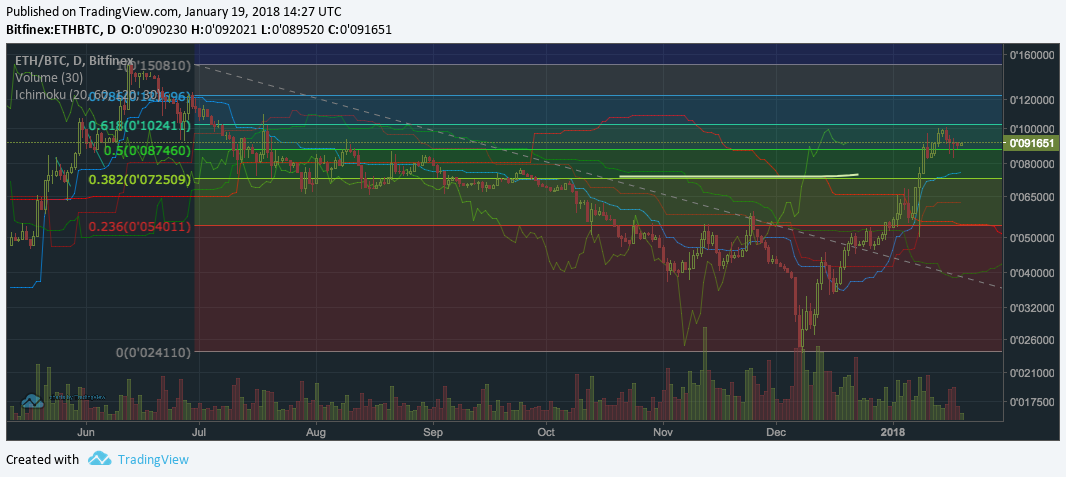
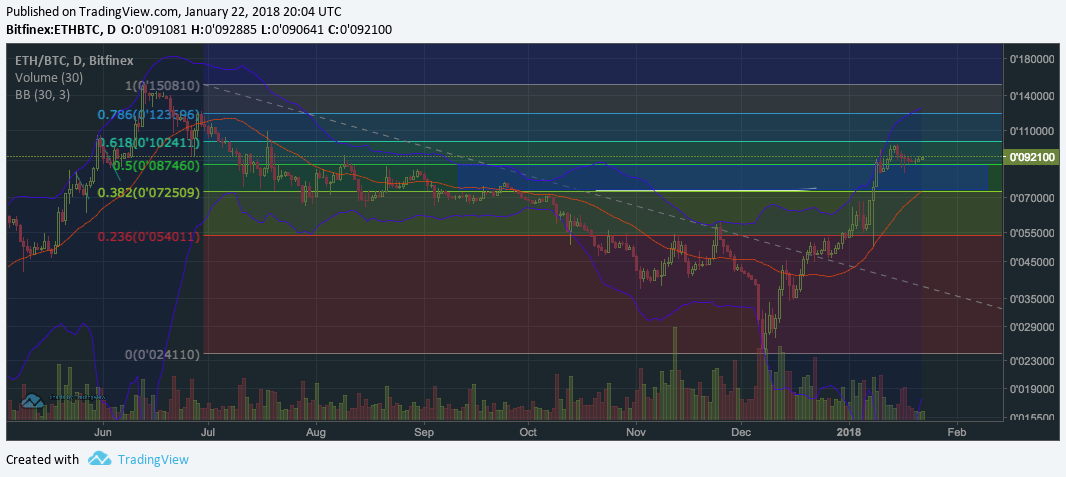
fibs

diff --git a/_layouts/forestry.html b/_layouts/forestry.html
@@ -55,11 +55,16 @@ layout: default-news
             <em>
               Join our Telegram group: <a title="{{ site.title }} Telegram" target="_blank" href="https://t.me/altcointrading_net"><i class="fa fa-telegram"></i> altcointrading_net</a>
             </em>
+          </p>
 
+          <p>
+            <em>
+              Join our Facebook group: <a title="{{ site.title }} Facebook Group" target="_blank" href="https://www.facebook.com/groups/332750657242745/"><i class="fa fa-facebook"></i> Altcoin Trading Chatroom</a>
+            </em>
           </p>
           <p>
             <em>
-              Subreddit: <a title="{{ site.title }} Reddit" target="_blank" href="https://reddit.com/r/altcointrader"><i class="fa fa-reddit"></i> r/altcointrader</a>
+              Subscribe to our subreddit: <a title="{{ site.title }} Reddit" target="_blank" href="https://reddit.com/r/altcointrader"><i class="fa fa-reddit"></i> r/altcointrader</a>
             </em>
 
           </p>

diff --git a/_includes/sidebar.html b/_includes/sidebar.html
@@ -120,13 +120,12 @@
           <a itemprop="sameAs" href="https://t.me/altcointrading_net">Telegram</a>
           &nbsp;-&nbsp;
           <a itemprop="sameAs" href="https://reddit.com/r/altcointrader">Reddit</a>
+          &nbsp;-&nbsp;
+          <a itemprop="sameAs" href="https://www.facebook.com/groups/332750657242745/">Facebook</a>
         </span>
       </li>
 
-      <li>
-        <h3>Submit News or Press Release</h3>
-          <a title="{{site.title}} Submit" href="/submit/"><strong><span class="yellow">Submit</span> News or Press Release</strong></a>
-      </li>
+    
 
 
     </ul>

diff --git a/_fibs/daily.md b/_fibs/daily.md
@@ -1,7 +1,7 @@
 ---
 published: true
 date: 2017-12-27 10:36:00 +0100
-update: 2018-01-19 15:21:00 +0100
+update: 2018-01-22 22:21:00 +0100
 
 layout: fibs
 title: "Fib Levels for Crypto Markets"
@@ -17,15 +17,15 @@ name: "daily/"
 image: ["/features/chop.jpeg"]
 
 dollars:
-- { market: "BTCUSD", chart: "/fibs/btcusd.png", comment: "BTC is sitting below a resistance right now. The markets look like there will be a chop for a few weeks now, perhaps even until March if the cycles determined by quarterly contracts are still happening, so there might be some action to catch the too-eager breakout traders. There is not going to be a definitive direction for some time now, be patient." }
-- { market: "ETHUSD", chart: "/fibs/ethusd.png", comment: "ETH is painting similar structure as bitcoin in the USD pair, however the whole drop was not as bloody as bitcoin's: ETH didn't drop to the lower bband on higher timeframes. On the USD pair there is a resistance now, as with bitcoin, but it has implications for the ratio." }
+- { market: "BTCUSD", chart: "/fibs/btcusd.png", comment: "After a weekend of shakeouts the dip continues. For now it is still in the old Fib range (it bounced down off a fib resistance) but it's reasonable to expect the price will go lower. The closest meaningful support is the last big range around 7k USD (blue rectangle)." }
+- { market: "ETHUSD", chart: "/fibs/ethusd.png", comment: "ETH is painting a similar structure as BTC even though the ETHUSD market is stronger. It is currently around the MA (center of bbands) but, as with BTCUSD, the meaningful support is the last range (blue rectangle)." }
 ratios:
-- { market: "ETHBTC", chart: "/fibs/ethbtc.png", comment: "Again, the ETHBTC ratio is the one market that is closest to bullish right now." }
+- { market: "ETHBTC", chart: "/fibs/ethbtc.png", comment: "Because ETH is stronger than BTC at the moment the ratio of ETHBTC is still bullish-looking. I've drawn the analogous blue rectangle - in case of the ratio it was resistance, now turned support." }
 ---
 
 
 > Cryptocurrency Price Action Comments
 
-* [Someone on BitMEX is trading in a rogue way](https://twitter.com/ThinkingUSD/status/954300609837936641) - opening two huge positions against each other, letting one get rekt which creates liquidity for the opposite one.
-* Bitcoiners are [happily testing out LN](https://twitter.com/aesedepece/status/954303558928814080)
-* [IOTA is coming to Japanese markets](https://www.reddit.com/r/IOTAmarkets/comments/7rhhrh/iota_will_be_listed_on_japanese_exchange_soon/)
+* [Today - 22 January - an auction of 38xx BTC forfeited by US gov takes place](https://www.usmarshals.gov/assets/2018/bitcoinauction/) - calendar at the bottom
+* [If you had IOTA stolen by the iotaseed generator post the tx to helloiota forum](https://forum.helloiota.com/9285/Call-to-action-lets-catch-the-thief) to help exchanges blacklist the thief's addresses
+* [Nassim Taleb is positive about cryptocurrencies that don't have a person or organization incharge](https://medium.com/opacity/bitcoin-1537e616a074)
